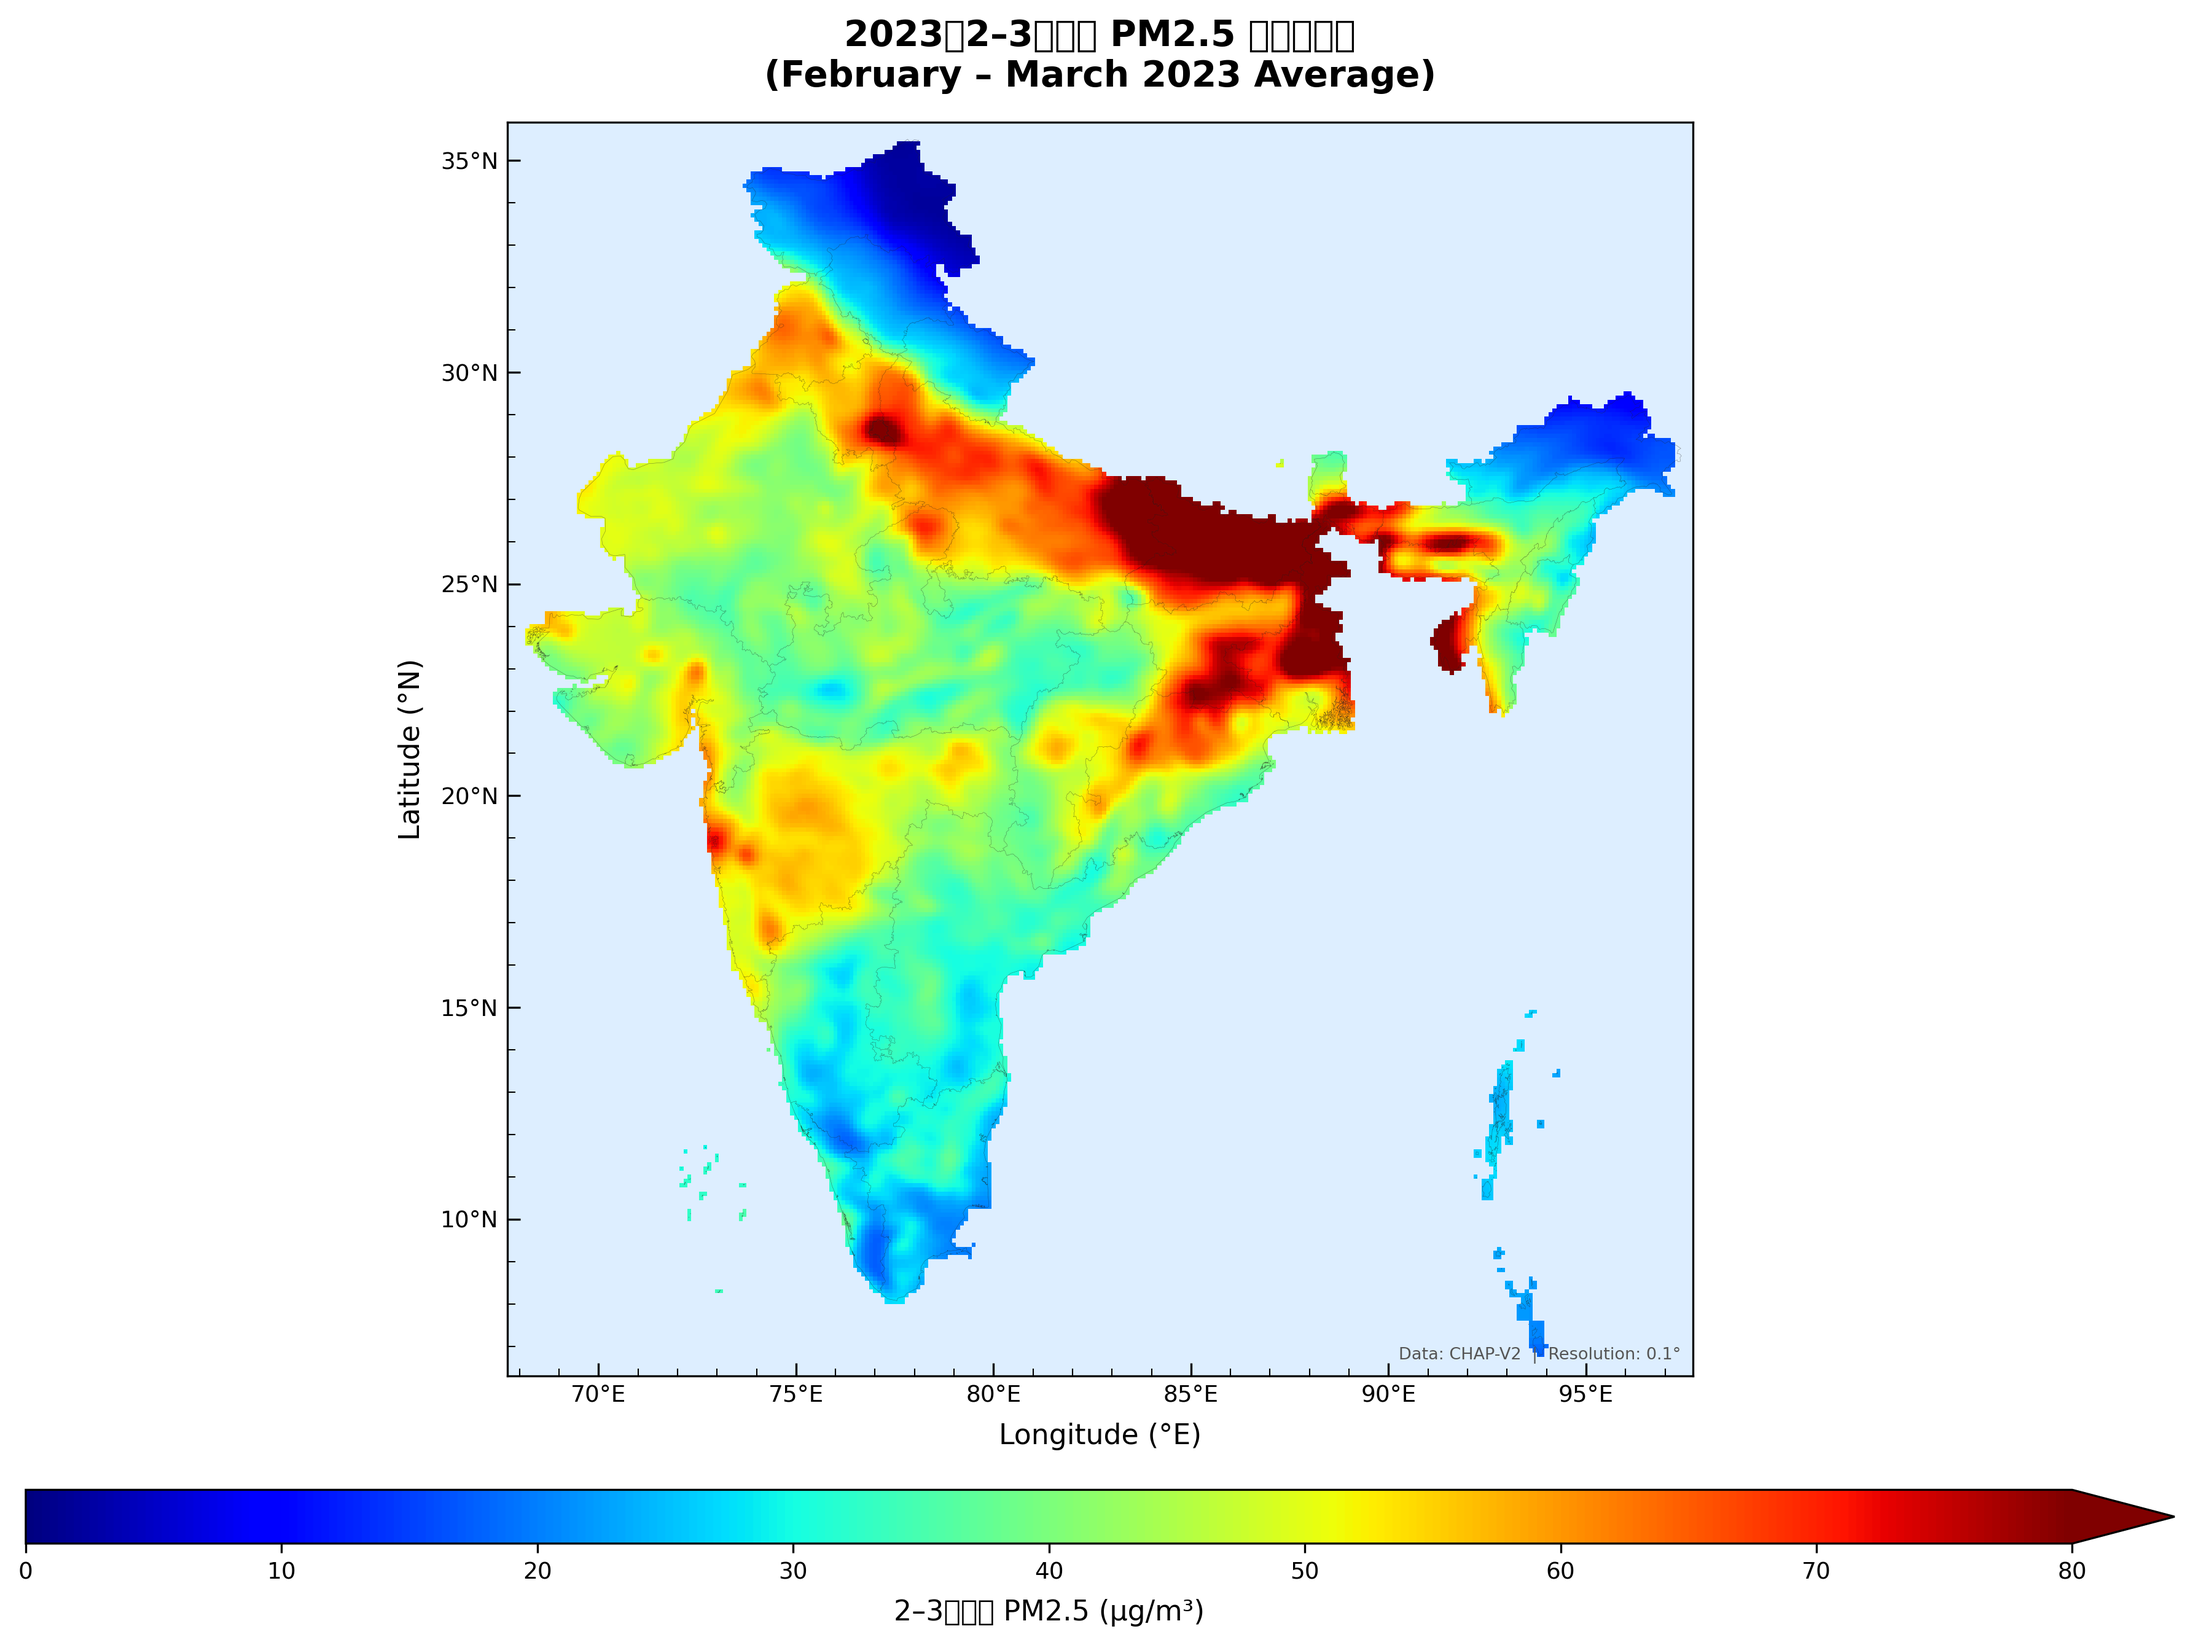
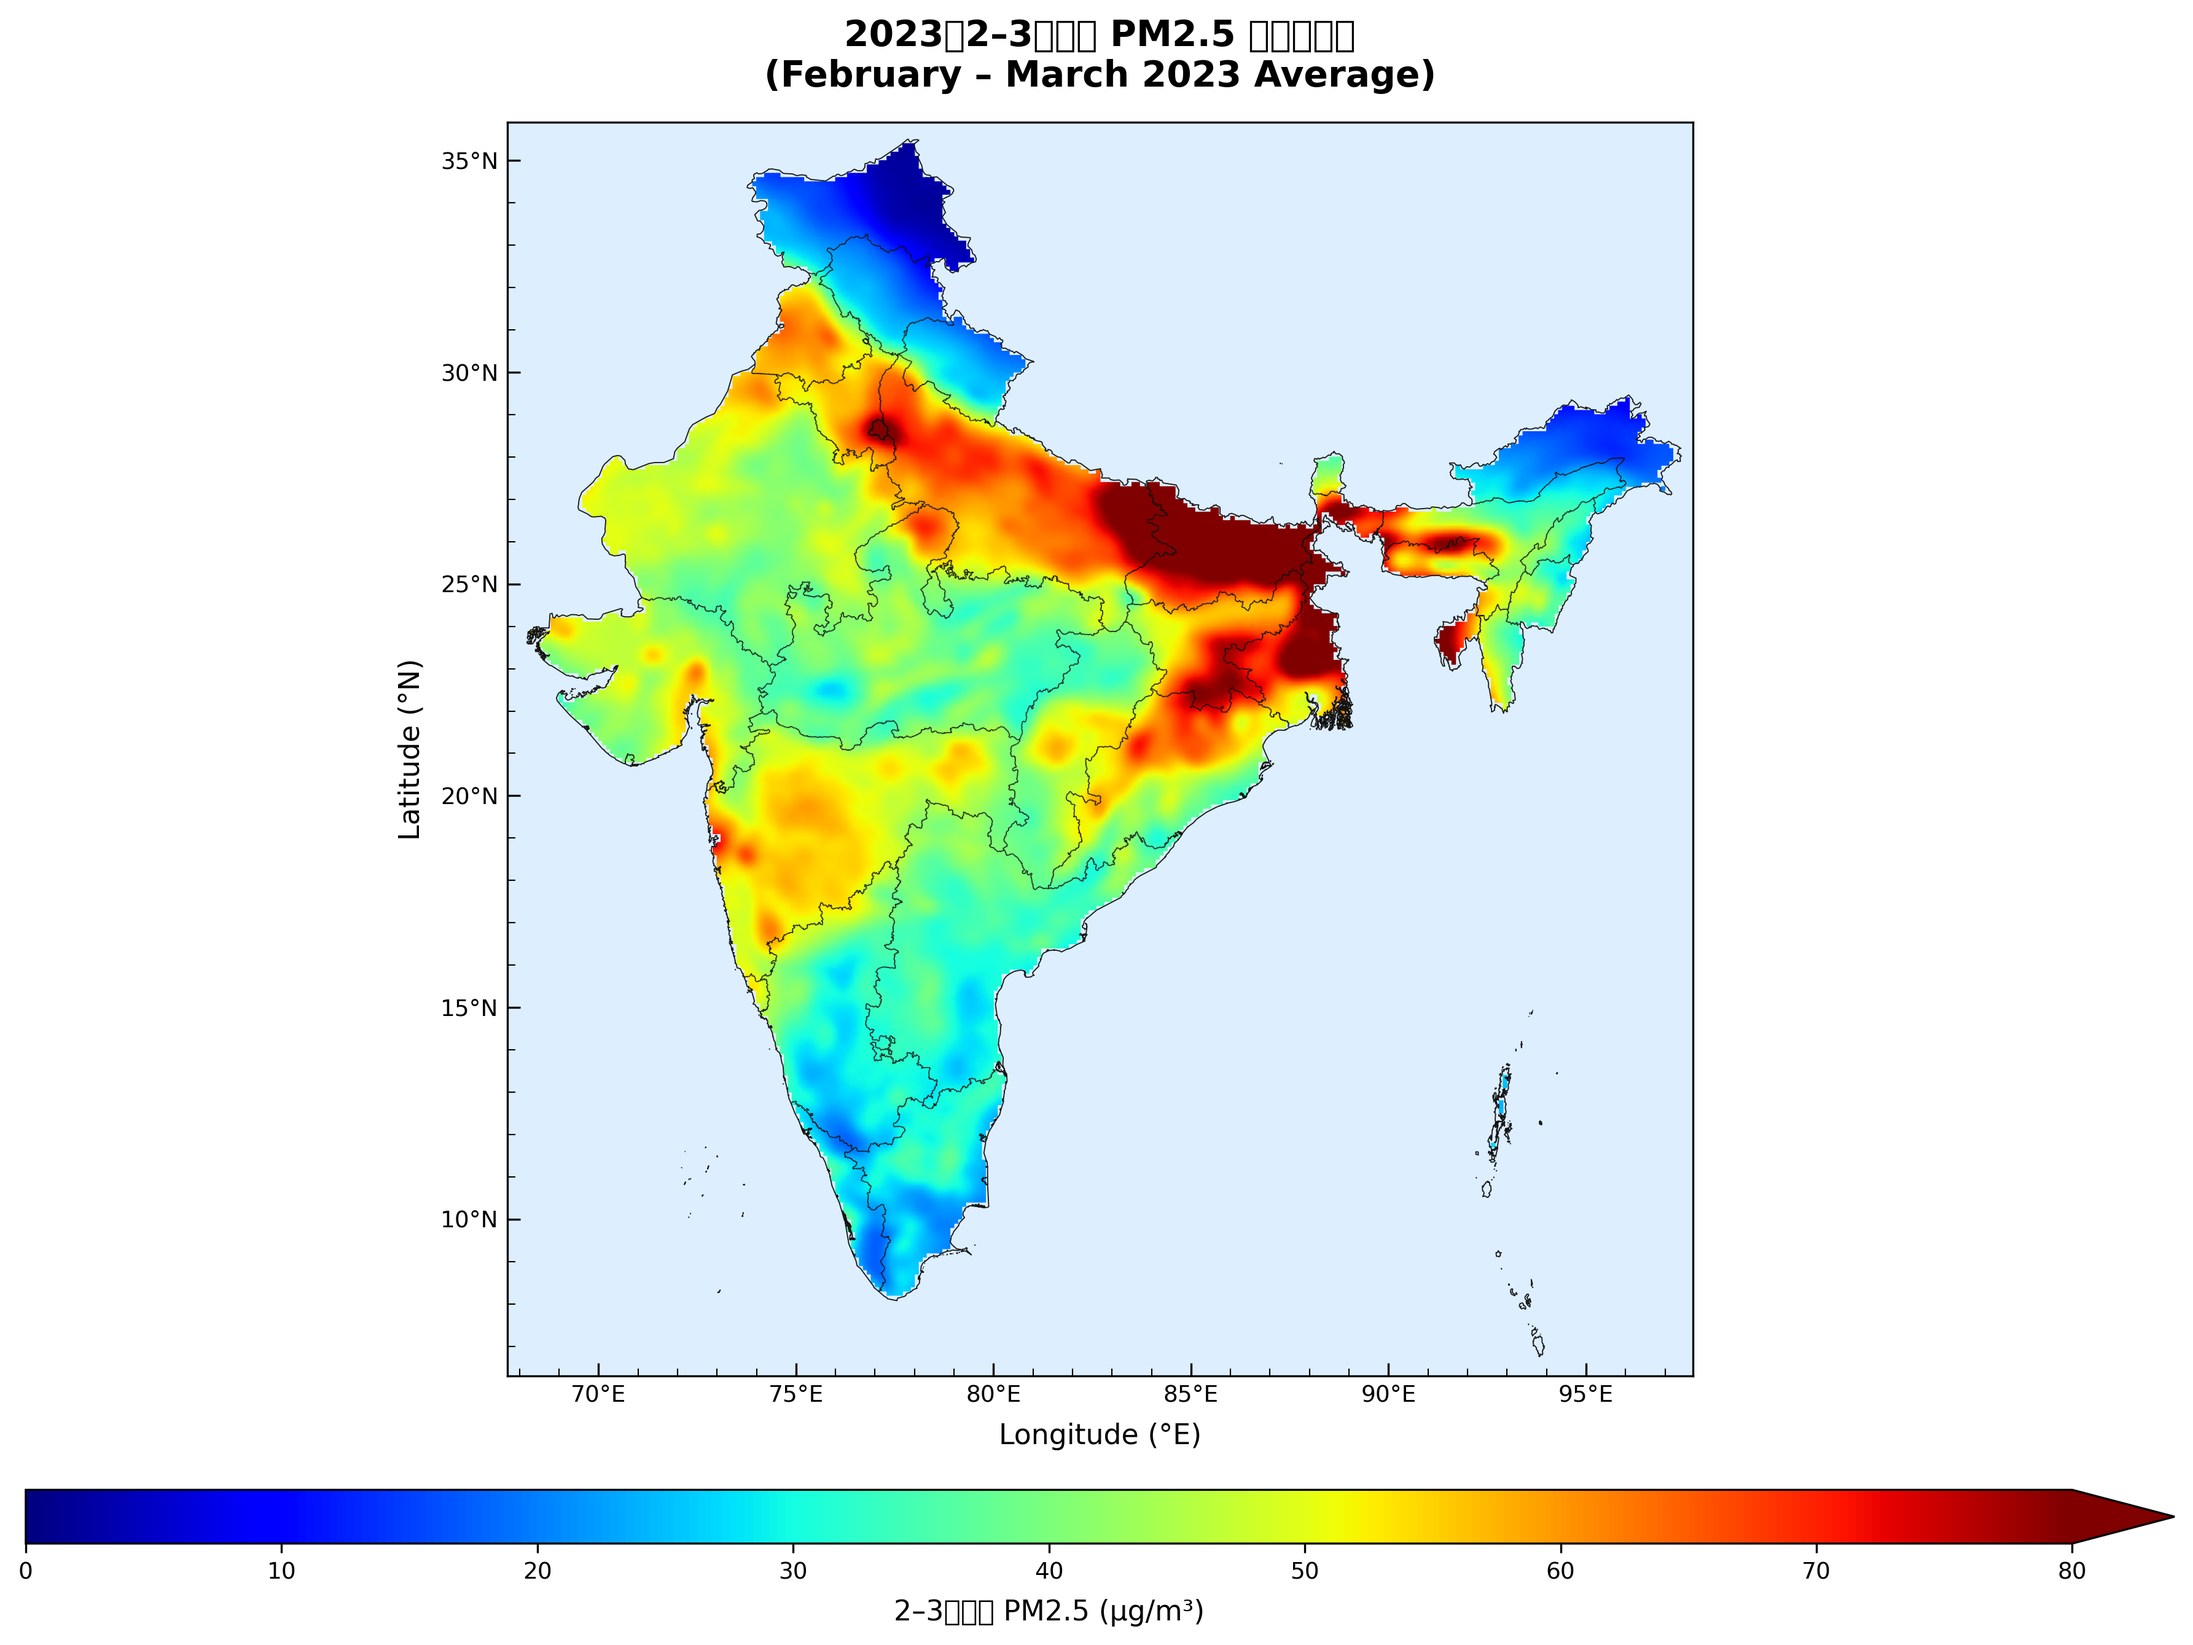
Improve heatmap smoothness, boundary clipping, and line visibility
Agent-Logs-Url: https://github.com/hhhhccccc/pm25-india-visualization/sessions/c421218d-2148-4cf3-878f-be54ff56a27f

diff --git a/plot_pm25.py b/plot_pm25.py
@@ -126,12 +126,12 @@ cmap = plt.get_cmap("jet")
 norm = mcolors.Normalize(vmin=VMIN, vmax=VMAX)
 
 # Boundary style for admin-1 (state-level) linework
-BOUNDARY_LINEWIDTH = 0.10
-BOUNDARY_COLOR = "#222222"
-BOUNDARY_ALPHA = 0.70
+BOUNDARY_LINEWIDTH = 0.45
+BOUNDARY_COLOR = "#111111"
+BOUNDARY_ALPHA = 0.95
 # Geometry simplification tolerance in degrees (~2 km) to reduce visual clutter
 # while preserving overall boundary shapes at this map scale.
-BOUNDARY_SIMPLIFY_TOL = 0.02
+BOUNDARY_SIMPLIFY_TOL = 0.01
 
 # ---------------------------------------------------------------------------
 # 4. Load higher-level admin boundaries (GeoJSON) – download from public source if local
@@ -189,12 +189,6 @@ if use_geojson and india_gdf is not None:
     except AttributeError:
         country_geom = india_gdf.geometry.unary_union
 
-    # Expand by ~half grid cell so colored raster reaches the plotted boundary.
-    _dlat = float(np.median(np.diff(lat)))
-    _dlon = float(np.median(np.diff(lon)))
-    _buffer = 0.5 * np.hypot(_dlat, _dlon)
-    country_geom = country_geom.buffer(_buffer)
-
     country_mask = contains_xy(country_geom, LON2, LAT2)
 else:
     country_mask = land_mask
@@ -214,7 +208,7 @@ ax.set_facecolor("#ddeeff")          # light ocean colour
 mesh = ax.pcolormesh(
     LON2, LAT2, pm25_plot,
     cmap=cmap, norm=norm,
-    shading="auto", zorder=2
+    shading="gouraud", antialiased=True, zorder=2
 )
 
 # --- Boundaries ---
@@ -295,15 +289,6 @@ ax.set_title(
     "2023年2–3月印度 PM2.5 空间分布图\n"
     "(February – March 2023 Average)",
     fontsize=14, fontweight="bold", pad=14
-)
-
-# --- Annotation ---
-ax.text(
-    0.99, 0.01,
-    "Data: CHAP-V2  |  Resolution: 0.1°",
-    transform=ax.transAxes,
-    fontsize=6.5, color="#555555",
-    ha="right", va="bottom",
 )
 
 # ---------------------------------------------------------------------------
